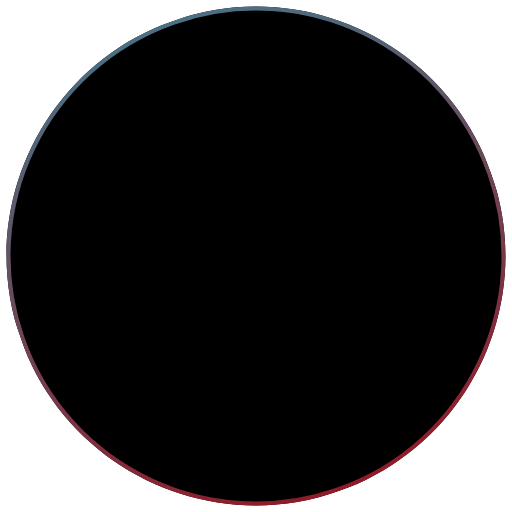
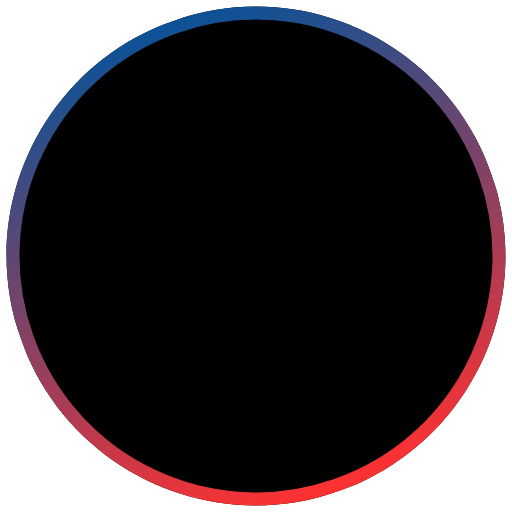
sphere material

Changed region(s): [[0.0, 0.0, 1.0, 1.0]]

diff --git a/src/components/Sphere.jsx b/src/components/Sphere.jsx
@@ -80,8 +80,8 @@ const Sphere = ({
 					<Points ref={ref} positions={sphere} stride={3} frustumCulled>
 						<PointMaterial
 							transparent
-							color={active ? 0xaaaaaa : 0x333333}
-							size={0.1}
+							color={active ? 0x777777 : 0x333333}
+							size={0.115}
 							sizeAttenuation={true}
 							depthWrite={false}
 							opacity={active ? 1 : 0.2}
@@ -91,7 +91,7 @@ const Sphere = ({
 						<pointsMaterial
 							transparent
 							color={active ? 0xaa0000 : 0x330000}
-							size={0.1}
+							size={0.115}
 							sizeAttenuation={true}
 							depthWrite={false}
 							// opacity={active ? 1 : 0.2}
@@ -102,7 +102,7 @@ const Sphere = ({
 						<pointsMaterial
 							transparent
 							color={active ? 0x0000aa : 0x000033}
-							size={0.1}
+							size={0.115}
 							sizeAttenuation={true}
 							depthWrite={false}
 							// opacity={active ? 1 : 0.2}
@@ -124,7 +124,7 @@ const Sphere = ({
 						url={sphereFill}
 						scale={[1.75, 1.5]}
 						transparent
-						position={[0, 0, 0]}
+						position={[0, 0, 1]}
 						opacity={0.1}
 					/>
 				</mesh>

diff --git a/src/containers/Left.jsx b/src/containers/Left.jsx
@@ -9,7 +9,13 @@ import tubes from '../assets/tube.png';
 import grayPoint from '../assets/point-circle.png';
 import activePoint from '../assets/active-point.png';
 
-const Left = ({ leftText, activeSphere, setActiveSphere, dataLength }) => {
+const Left = ({
+	leftText,
+	activeSphere,
+	setActiveSphere,
+	dataLength,
+	sphereData,
+}) => {
 	// eslint-disable-next-line no-unused-vars
 	const [activeNav, setActiveNav] = useState(4);
 	const positions = [2, 1, 0, -1, -2, -3, -4];
@@ -74,6 +80,9 @@ const Left = ({ leftText, activeSphere, setActiveSphere, dataLength }) => {
 							? true
 							: false
 					}
+					red={sphereData[dataLength - 1].red}
+					blue={sphereData[dataLength - 1].blue}
+					gray={sphereData[dataLength - 1].gray}
 				/>
 			</mesh>
 		</group>

diff --git a/src/containers/Canvas.jsx b/src/containers/Canvas.jsx
@@ -164,9 +164,9 @@ const Canvas = () => {
 			aPOpen: 2,
 			aAutomated: 89,
 			aManual: 24,
-			gray: 80,
-			red: 15,
-			blue: 5,
+			gray: 100,
+			red: 0,
+			blue: 0,
 		},
 	];
 	return (
@@ -182,6 +182,7 @@ const Canvas = () => {
 							activeSphere={activeSphere}
 							setActiveSphere={setActiveSphere}
 							dataLength={sphereData.length}
+							sphereData={sphereData}
 						/>
 					</group>
 					<group scale={1.5} position={[0, 0, -9]}>

diff --git a/src/components/Fog.jsx b/src/components/Fog.jsx
@@ -16,7 +16,7 @@ const Fog = ({ scale, top }) => {
 				url={fog}
 				scale={scale ? scale : [0.8, 0.8]}
 				transparent
-				position={[0, top ? top : 0, 0]}
+				position={[0, top ? top : 0, -0.1]}
 			/>
 		</mesh>
 	);
